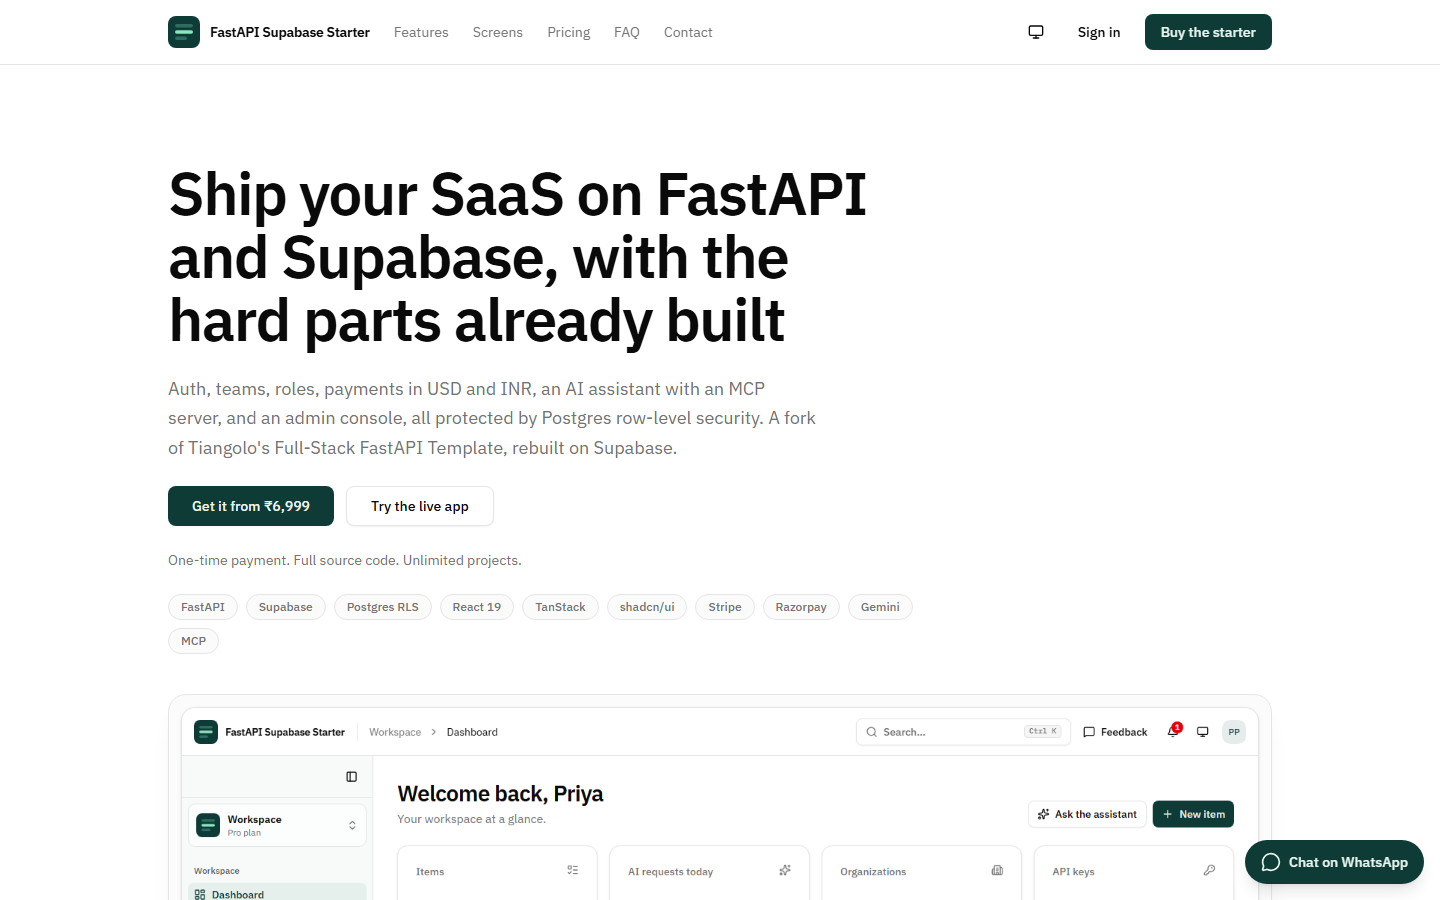
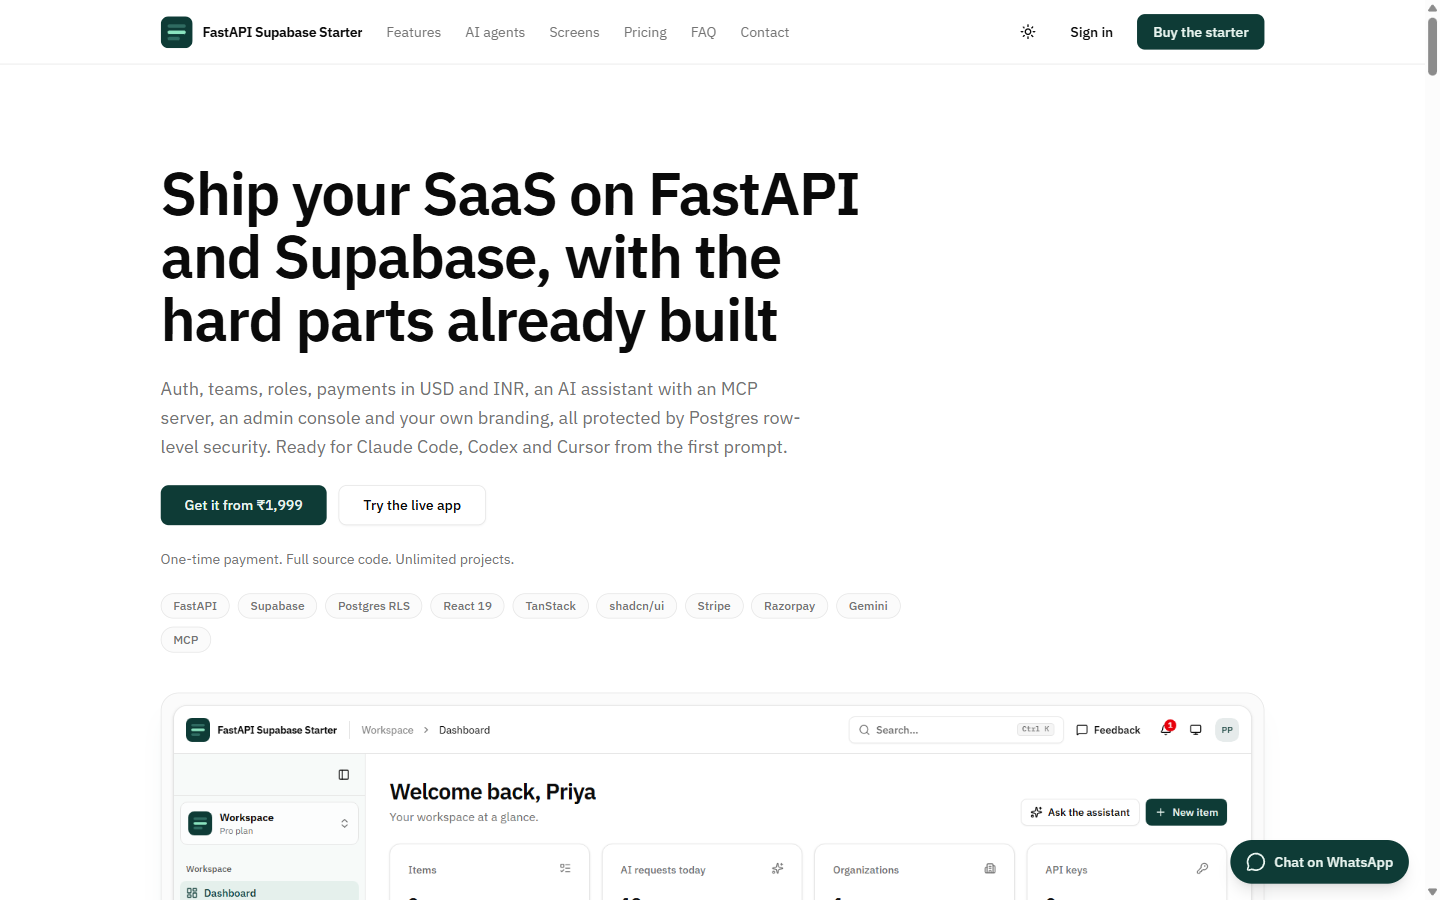
Sync README: public site, blog and help center, branding, operations; refresh screenshots

diff --git a/README.md b/README.md
@@ -30,6 +30,7 @@ Every SaaS needs the same foundation before its first real feature:
 - **Teams:** organizations, invitations, member roles
 - **Permissions:** admins, editors, viewers, and rules that hold up
 - **Developer access:** API keys
+- **Your brand:** name, logo and colors, changed without a deploy
 - **Getting paid:** checkout, webhooks, receipts
 - **AI:** an assistant, and lately an MCP server so Claude can use your app
 - **Data isolation:** making sure user A can never see user B's rows
@@ -46,7 +47,7 @@ Rough estimates for an experienced developer building each piece properly, tests
 |---|---|---|
 | App shell: sidebar, Ctrl+K command menu, dashboard, data tables, landing page | 4–6 days | ✅ |
 | Supabase auth bridge (JWT/JWKS checks, session refresh, protected routes) | 1–2 days | ✅ |
-| Email codes, phone codes (SMS/WhatsApp), social login, CAPTCHA | 2–3 days | ✅ |
+| Email codes, phone codes (SMS/WhatsApp), social login, CAPTCHA, account security | 2–4 days | ✅ |
 | "Runs as the user" data layer so RLS protects every request | 2–3 days | ✅ |
 | Roles & permissions with admin UI, expiry and overrides | 3–5 days | ✅ |
 | Plans, usage limits and an audit log | 2–3 days | ✅ |
@@ -54,11 +55,14 @@ Rough estimates for an experienced developer building each piece properly, tests
 | In-app notifications (live), dark mode | 1–2 days | ✅ |
 | Organizations, invitations, ownership transfer | 3–5 days | ✅ |
 | API keys | 1–2 days | ✅ |
+| White-label branding: name, logo and colors from the admin UI | 1–2 days | ✅ |
+| Rate limiting, request logs, a database health check, a Postman collection | 1–2 days | ✅ |
 | Stripe + Razorpay with verified webhooks | 3–4 days | ✅ |
 | AI assistant + MCP server with OAuth | 3–5 days | ✅ |
 | AGENTS.md, Claude Code skills and MCP configs for coding agents | 1–2 days | ✅ |
+| Public site for search engines: pre-built pages, blog, help center, legal pages, sitemap | 2–4 days | ✅ |
 | API tests against a real Supabase + CI | 2–3 days | ✅ |
-| **Total** | **6–10 weeks** | **An afternoon of setup** |
+| **Total** | **7–12 weeks** | **An afternoon of setup** |
 
 At even ₹2,000 an hour, the low end is about **₹5 lakh of work**, for **₹1,999**.
 
@@ -66,15 +70,22 @@ At even ₹2,000 an hour, the low end is about **₹5 lakh of work**, for **₹1
 
 **🧭 A real app shell, not a demo page**
 - Sidebar with grouped navigation, filtered by each user's permissions; collapses to icons (Ctrl+B) and becomes a sheet on phones
-- Header with breadcrumbs, a **Ctrl+K command menu**, notifications, feedback, theme and account menu
+- Header with a **Ctrl+K command menu**, notifications, feedback, theme and account menu; breadcrumbs above each page title
 - A dashboard home: KPI tiles, usage meters, an AI usage chart, a getting-started checklist and recent activity
 - Data tables with search, sorting, column picker and paging; charts with a table view; confirm dialogs, toasts, skeletons and empty states everywhere
-- A public landing page with live pricing, and a split-screen sign-in page
+- A split-screen sign-in page
+
+**🌐 A public site built for search engines**
+- Home, features, pricing, compare, FAQ and contact pages, rendered to HTML at build time with TanStack Start; the signed-in app stays a fast single-page app
+- A **blog** and a searchable **help center** written in Markdown, plus privacy, terms, refund and delivery pages (the ones Razorpay asks for)
+- Per-page titles, descriptions, canonical links and link previews, structured data (product, FAQ, articles), `sitemap.xml` and `robots.txt`
+- Still plain static files: any static host or nginx serves it
 
 **🔐 Authentication (Supabase Auth)**
 - Email + password, email codes, and phone codes over **SMS or WhatsApp** (via MSG91)
 - Any OAuth provider (Google, GitHub, Apple, …), configured with one env var
 - Password reset, auto-refreshing sessions, Cloudflare Turnstile CAPTCHA
+- A Security page in settings: change email or password, and sign out every other device
 
 **🛡 Security built into the database**
 - Postgres **Row Level Security** on every table
@@ -113,6 +124,7 @@ At even ₹2,000 an hour, the low end is about **₹5 lakh of work**, for **₹1
 **🧠 Ready for AI coding agents**
 - `AGENTS.md` with the security rules, commands, layout and recipes, read by Codex, Cursor, Copilot, Windsurf and Claude Code
 - `CLAUDE.md` plus Claude Code skills: `/add-resource` (migration with RLS, API, tests, client, page, nav) and `/add-ai-tool`
+- `ADD_PRODUCT.md`: one prompt for any agent to add a whole product area, with related tables, pages, a permission and AI tools
 - MCP servers preconfigured for Claude Code (`.mcp.json`), Cursor (`.cursor/mcp.json`) and Codex (`.codex/config.toml`): Supabase in read-only mode, shadcn/ui, Playwright and the app's own server
 - `.gemini/settings.json` points Gemini CLI at the same `AGENTS.md`
 - Each tool's docs: [Claude Code MCP](https://code.claude.com/docs/en/mcp) and [memory](https://code.claude.com/docs/en/memory), [Codex MCP](https://learn.chatgpt.com/docs/extend/mcp?surface=cli), [Cursor MCP](https://cursor.com/docs/context/mcp), [VS Code MCP servers](https://code.visualstudio.com/docs/copilot/customization/mcp-servers), [Gemini CLI context files](https://geminicli.com/docs/cli/gemini-md), [Supabase MCP](https://supabase.com/docs/guides/getting-started/mcp), [shadcn MCP](https://ui.shadcn.com/docs/mcp), and [which tools read AGENTS.md](https://thepromptshelf.dev/blog/agents-md-vs-claude-md-tool-support-2026)
@@ -133,18 +145,34 @@ At even ₹2,000 an hour, the low end is about **₹5 lakh of work**, for **₹1
   <img src="screenshots/admin-analytics.png" alt="Admin analytics: KPI tiles, sign-ups per day and users by plan" width="100%" />
 </p>
 
+**🎨 Your brand, without a deploy**
+- Admins set the app's **name, logo and color** under Settings › Appearance; the header, sidebar, sign-in page and browser tab follow
+- Eight curated palettes or any custom color, with **five chart colors derived from it** automatically
+- Dark mode handled: the color is lifted for dark backgrounds and button text picks white or dark for contrast
+- Changes preview for the admin first, then apply to everyone; each one lands in the audit log
+
+<p align="center">
+  <img src="screenshots/branding.png" alt="The Brand card in Settings: app name, logo, curated colors and the derived chart palette, previewed across the app" width="100%" />
+</p>
+
+**⚙ Operations**
+- A per-IP **rate limit** that answers 429 with Retry-After (payment webhooks exempt), tunable or off with one env var
+- One log line per request with status, timing and the real client IP behind a proxy
+- `/health` checks the database through Supabase, ready for uptime monitors
+- A **Postman collection** generated from the API alongside the typed client
+
 **🔔 Notifications**
 - In-app notifications with an unread badge, delivered live through Supabase Realtime
 - Built-in triggers: payment received, new organization member, reply to feedback; `notify()` for your own events
 
 **🧰 Everything around it**
-- Dark mode (light / dark / system)
+- Dark mode (light / dark / system), designed rather than inverted
 - Profiles with avatar uploads (Supabase Storage)
 - An audit log written by database triggers: every change to roles, permissions, members, API keys, payments and plans, with who made it
 - SMS, WhatsApp (MSG91) and email (SMTP) templates managed under Admin › Messaging, with a delivery log of every message
 - Sentry, CORS config, Docker Compose, GitHub Actions
-- A typed TypeScript client generated from your OpenAPI schema, with React 19, TanStack Router and Query, and shadcn/ui
-- Pages: landing, sign-in, dashboard, items, organizations (members, invitations, settings), billing, assistant, API keys, settings (profile, appearance, your feedback), the admin console and OAuth consent
+- A typed TypeScript client generated from your OpenAPI schema, with React 19, TanStack Start, Router and Query, and shadcn/ui
+- Pages: home, features, pricing, compare, FAQ, contact, blog, help center, legal, sign-in, dashboard, items, organizations (members, invitations, settings), billing, assistant, API keys, settings (profile, security, appearance and brand, your feedback), the admin console and OAuth consent
 - `scripts/seed_demo.py`: demo accounts and 60 days of history, so the charts have something to show on day one
 
 Each integration switches on when its keys are set in `.env`. Payments, messaging and AI each live in their own migration and router, so they're easy to delete if you don't need them.
@@ -201,6 +229,8 @@ Each integration switches on when its keys are set in `.env`. Payments, messagin
 | Audit log | – | Trigger-based, covers every access change |
 | Admin tools | User list | User management, impersonation, metrics, feedback inbox |
 | Notifications | – | In-app, live via Supabase Realtime |
+| Branding | Edit the code | Name, logo and colors from the admin UI, charts included |
+| Operations | A health-check endpoint | Rate limiting, request log, database health check, Postman collection |
 | Dark mode | ✅ | ✅ |
 | AI / MCP | – | Gemini assistant with history + MCP server |
 | AI coding agents | – | AGENTS.md, Claude Code skills, MCP configs for Claude Code, Cursor and Codex |
@@ -316,6 +346,9 @@ No. You pay once and keep the code forever. Free updates last 3 months on Solo, 
 **Can I use it for client projects?**
 Yes. Build unlimited apps for yourself or your clients and hand them the source. You just can't resell or republish the starter itself as a template. See [LICENSE](LICENSE).
 
+**Can I put my own brand on it?**
+Yes, without touching code: admins set the app's name, logo and color under Settings › Appearance, and every page, chart and the sign-in screen follow. For deeper changes, the design tokens live in one CSS file.
+
 **Do I need a paid Supabase plan?**
 No. You can build and test on Supabase's free tier, and you can run Supabase locally with the CLI. Check Supabase's pricing for your production needs.
 
@@ -332,10 +365,10 @@ Yes. `AGENTS.md` gives every coding agent the security rules, commands and recip
 Gemini, through the official SDK. The tools are plain Python functions, so moving them to another model's tool-calling API is a small change.
 
 **How is it tested?**
-Unit tests for token checks and webhook signatures, plus API tests that run against a real Supabase with the project's migrations. They cover data isolation between users, roles and overrides, organizations, API keys, payment webhooks, the SMS hook and the MCP server. CI runs the same suite.
+Unit tests for token checks and webhook signatures, plus API tests that run against a real Supabase with the project's migrations. They cover data isolation between users, roles and overrides, organizations, API keys, payment webhooks, the SMS hook, the MCP server and branding. The rate limiter and request log have unit tests. CI runs the same suite.
 
 **What versions does it use?**
-Python 3.12, FastAPI, Supabase REST (postgrest-py), React 19, Vite, TanStack Router and Query, Tailwind v4, shadcn/ui, Node 24.
+Python 3.12, FastAPI, Supabase REST (postgrest-py), React 19, Vite, TanStack Start, Router and Query, Tailwind v4, shadcn/ui, Node 24.
 
 ## Quickstart
 
